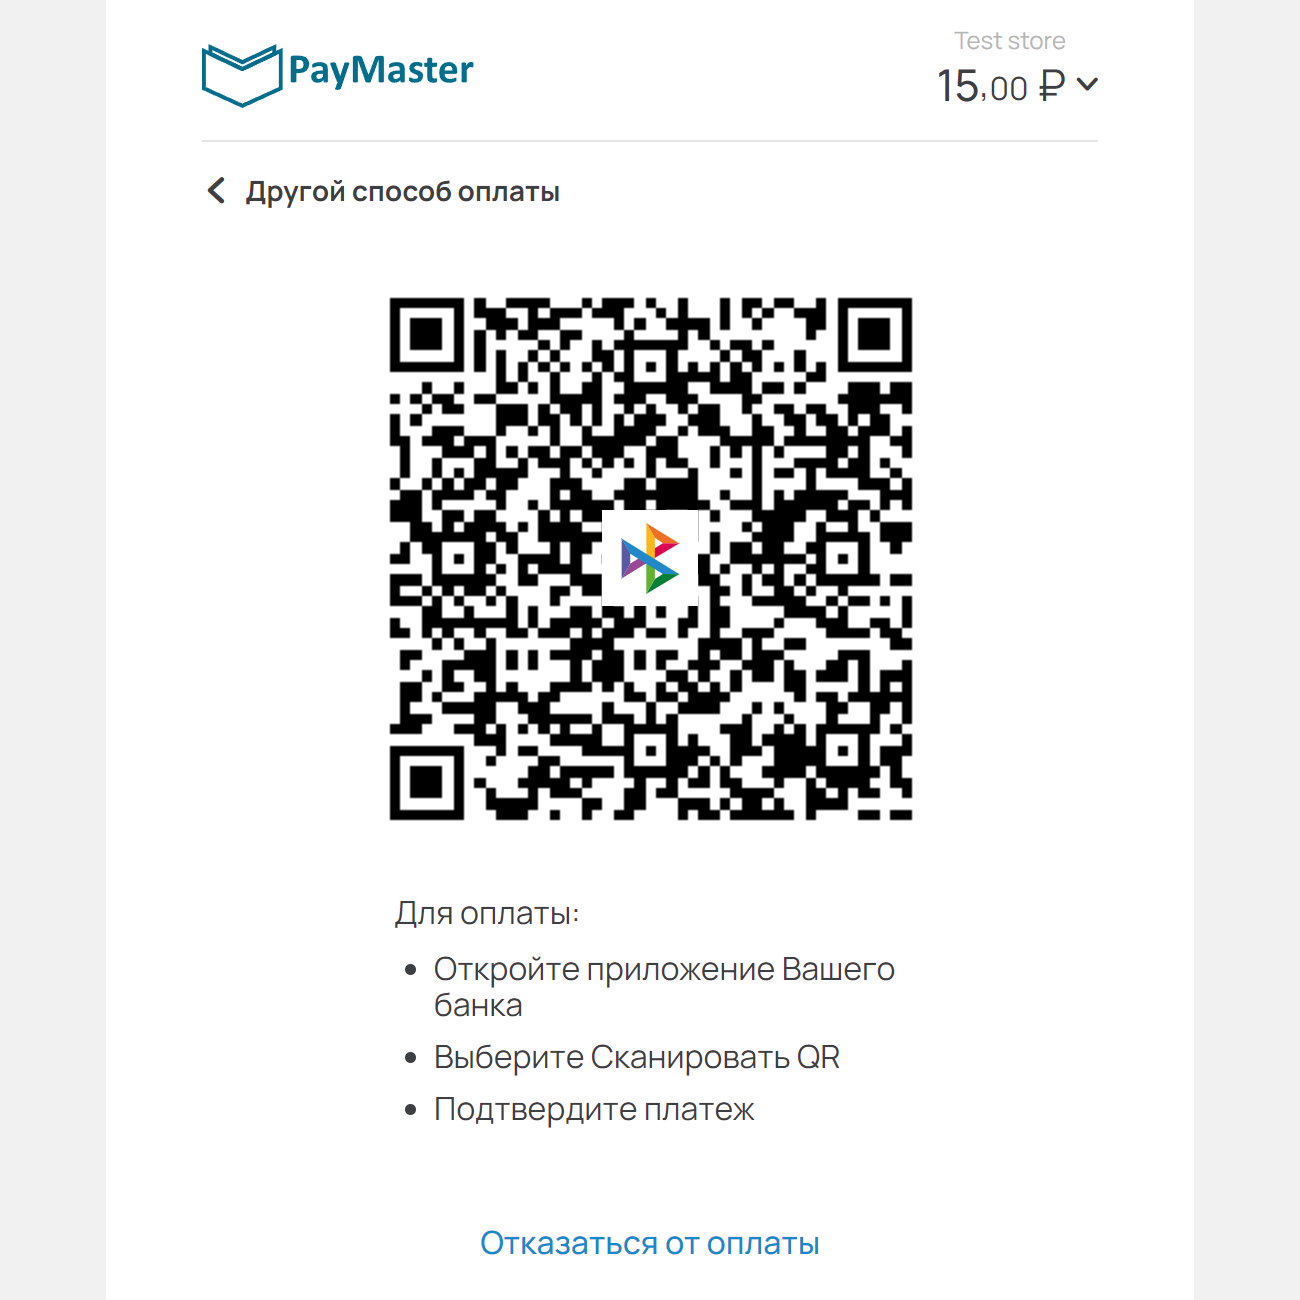
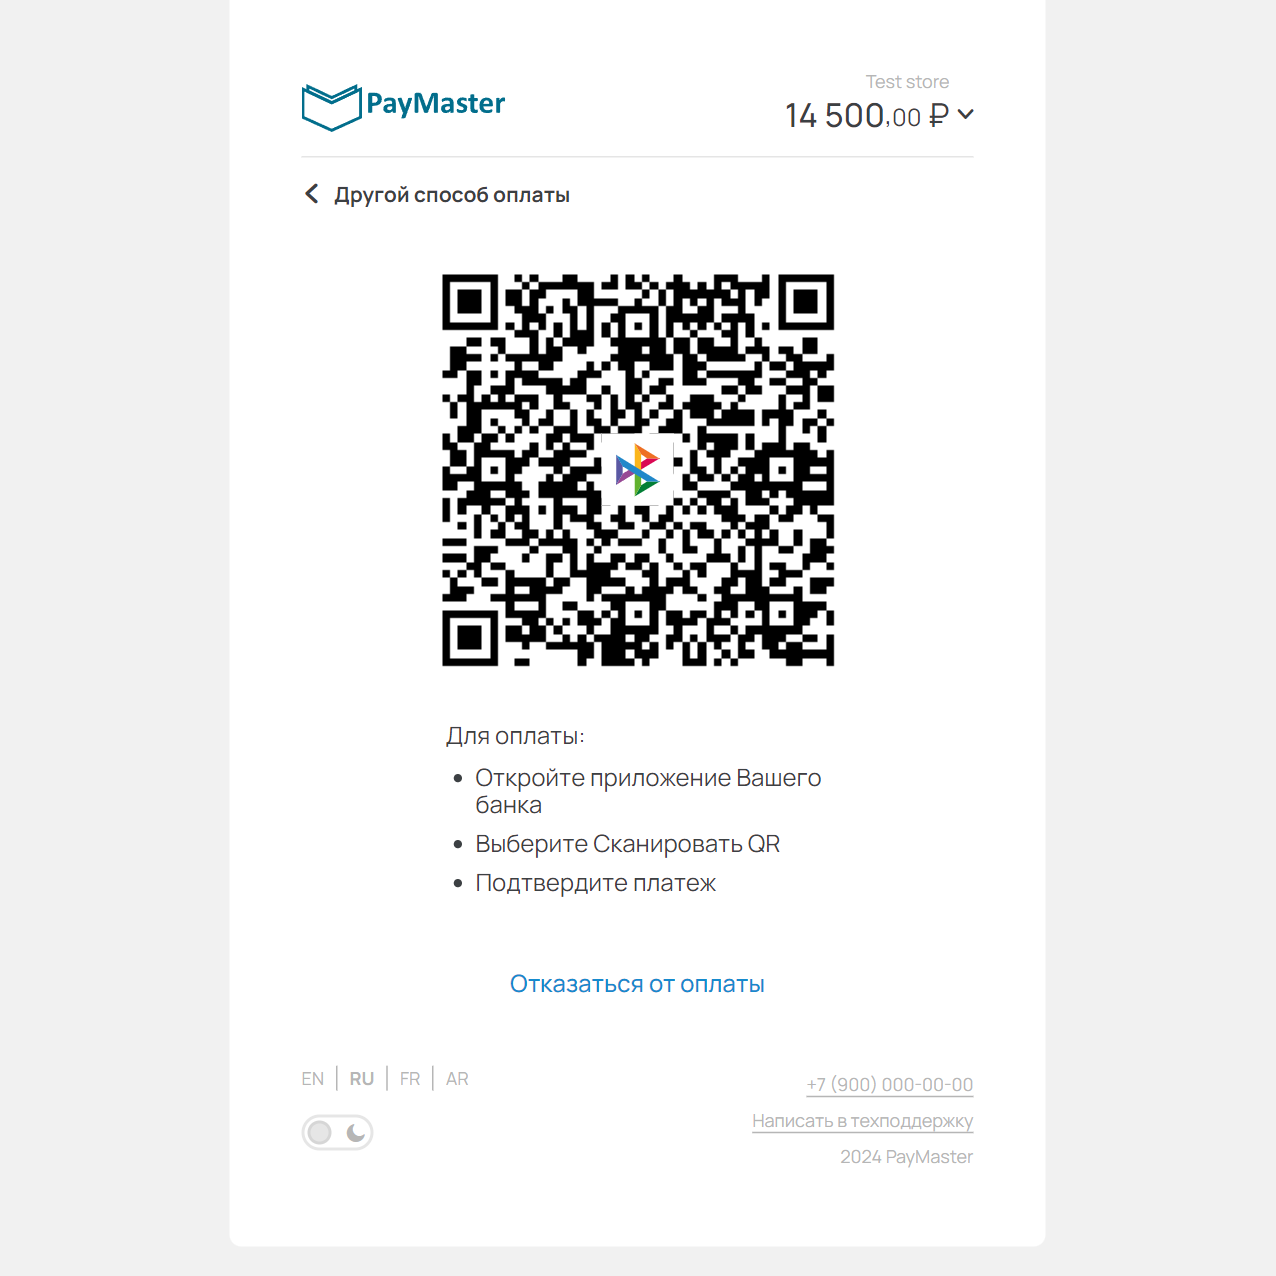
develop

diff --git a/src/index.js b/src/index.js
@@ -42,7 +42,7 @@ document.getElementById("payment-form-demo-btn").addEventListener("click", funct
       description: "test payment"
     },
     amount: {
-      value: 15145,
+      value: 14500,
       currency: "RUB"
     }
   });
@@ -56,7 +56,7 @@ document.getElementById("payment-widget-demo-btn").addEventListener("click", fun
       description: "test payment"
     },
     amount: {
-      value: 15145,
+      value: 14500,
       currency: "RUB"
     }
   });

diff --git a/src/styles/main.scss b/src/styles/main.scss
@@ -21,4 +21,12 @@ section {
   }
 }
 
+.swiper--payment-form,
+.swiper--payment-widget {
+  
+  .swiper-pagination {
+    bottom: 32px;
+  }
+}
+
 @import "./components/buttons.scss";
